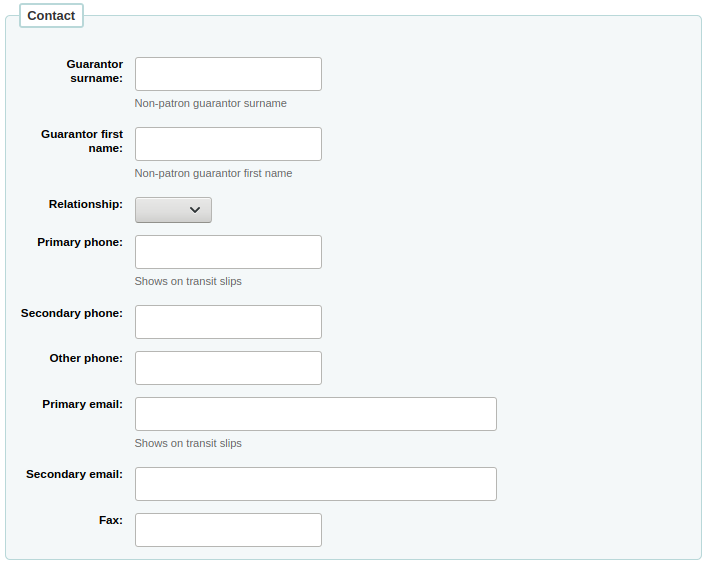
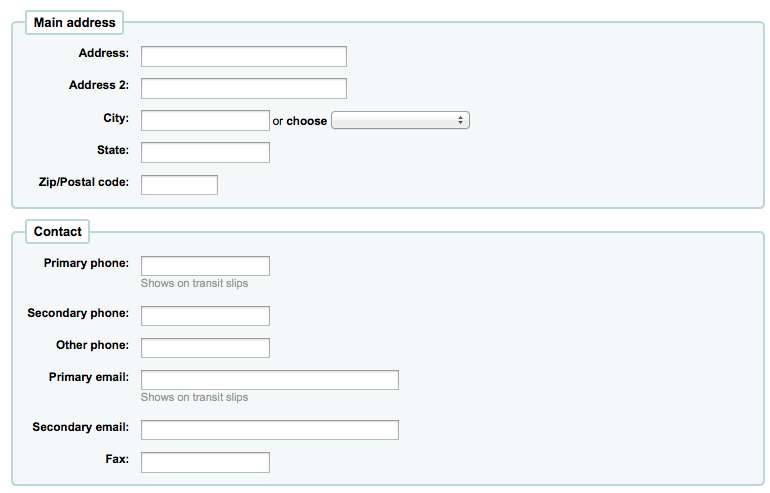
Revert "Review of Add patron: updated screenshots"
This reverts commit 743aacad938553b42faa714f8dbc2a2a48ebdb5b.

Changed region(s): [[0.0, 0.0, 0.9944, 1.0], [0.5904, 0.2434, 0.6215, 0.2738], [0.3418, 0.6085, 0.3729, 0.6389]]

diff --git a/source/images.rst b/source/images.rst
@@ -402,6 +402,7 @@
 .. |image408| image:: images/patrons/addpatronform.png
 .. |image409| image:: images/patrons/addcontact.png
 .. |image410| image:: images/patrons/addGuarantor.png
+.. |image411| image:: images/patrons/addOrg.png
 .. |image412| image:: images/patrons/addaltcontact.png
 .. |image413| image:: images/patrons/addlibmanagement.png
 .. |image414| image:: images/patrons/addlibsetup.png
@@ -1440,4 +1441,3 @@
 .. |image1463| image:: images/patrons/addGuarantor2.png
 .. |image1464| image:: images/patrons/addGuarantor3.png
 .. |image1465| image:: images/patrons/addGuarantor4.png
-.. |image1466| image:: images/patrons/addmainaddress.png

diff --git a/source/patrons.rst b/source/patrons.rst
@@ -95,8 +95,6 @@ Once there you can add a new patron.
 
 -  Next enter the contact information
 
-   |image1466|
-
    |image409|
 
    -  For contact information, note that the primary phone and email
